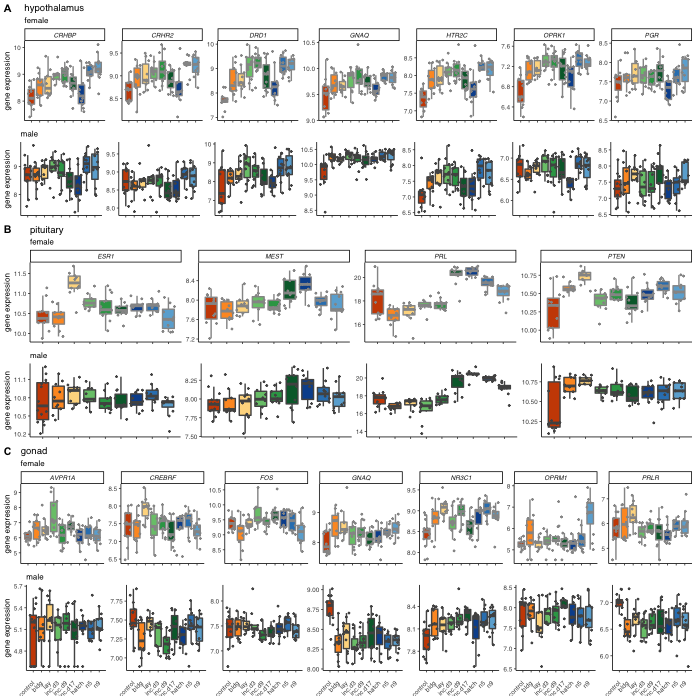
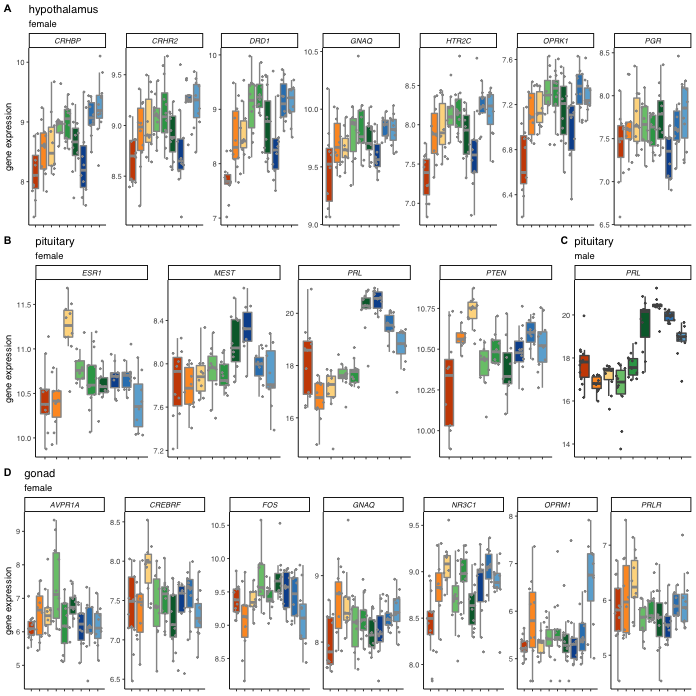
new fig 2

diff --git a/analysis/figure-2.md b/analysis/figure-2.md
@@ -3,14 +3,14 @@ Candidate gene analysis
 
     library(tidyverse)
 
-    ## ── Attaching packages ────────────────────────── tidyverse 1.3.0 ──
+    ## ── Attaching packages ────────────────────────────────────────────────────────────────────────────────── tidyverse 1.3.0 ──
 
     ## ✓ ggplot2 3.3.0.9000     ✓ purrr   0.3.3     
     ## ✓ tibble  2.1.3          ✓ dplyr   0.8.3     
     ## ✓ tidyr   1.0.0          ✓ stringr 1.4.0     
     ## ✓ readr   1.3.1          ✓ forcats 0.4.0
 
-    ## ── Conflicts ───────────────────────────── tidyverse_conflicts() ──
+    ## ── Conflicts ───────────────────────────────────────────────────────────────────────────────────── tidyverse_conflicts() ──
     ## x dplyr::filter() masks stats::filter()
     ## x dplyr::lag()    masks stats::lag()
 
@@ -63,116 +63,14 @@ Candidate gene analysis
 Candidate Genes (from literature and relevant GO terms)
 -------------------------------------------------------
 
-    # all genes in this parental care dataset 
-
-    geneids <- read_csv("../metadata/00_geneinfo.csv") %>%
-      select(-X1) %>%
-      rename("NCBI" = "entrezid",
-             "gene" = "Name")
+    source("../R/wrangledata.R")
 
     ## Warning: Missing column names filled in: 'X1' [1]
 
-    # From Ch 17 Evolution of parental care
-    curleychampagnegenes <- c("AVPR1A", "ADRA2A",    
-                             "COMT", "CRH", "CRHBP", "CRHR1", "CRHR2", 
-                              "DRD1", "DRD4","ESR1", "ESR2", #ERa ERbeta
-                              "FOS", "HTR2C", "MEST", "NR3C1", #GR
-                              "OPRM1", "PGR", "PRL", "PRLR",  "SLC6A4") #5HTT
-    curleychampagnegenes <- as.data.frame(curleychampagnegenes) %>%
-      mutate(GO = "parentalcare", gene = curleychampagnegenes)  %>%
-      select(GO, gene)
-    curleychampagnegenes
-
-    ##              GO   gene
-    ## 1  parentalcare AVPR1A
-    ## 2  parentalcare ADRA2A
-    ## 3  parentalcare   COMT
-    ## 4  parentalcare    CRH
-    ## 5  parentalcare  CRHBP
-    ## 6  parentalcare  CRHR1
-    ## 7  parentalcare  CRHR2
-    ## 8  parentalcare   DRD1
-    ## 9  parentalcare   DRD4
-    ## 10 parentalcare   ESR1
-    ## 11 parentalcare   ESR2
-    ## 12 parentalcare    FOS
-    ## 13 parentalcare  HTR2C
-    ## 14 parentalcare   MEST
-    ## 15 parentalcare  NR3C1
-    ## 16 parentalcare  OPRM1
-    ## 17 parentalcare    PGR
-    ## 18 parentalcare    PRL
-    ## 19 parentalcare   PRLR
-    ## 20 parentalcare SLC6A4
-
-    # Candidate GO terms 
-    GO_path <- "../metadata/goterms/"   # path to the data
-    GO_files <- dir(GO_path, pattern = "*.txt") # get file names
-    GO_pathfiles <- paste0(GO_path, GO_files)
-
-    GOgenesLong <- GO_pathfiles %>%
-      setNames(nm = .) %>% 
-      map_df(~read_table(.x, col_types = cols(), col_names = FALSE), .id = "file_name") %>% 
-      mutate(GO = sapply(strsplit(as.character(file_name),'../metadata/goterms/'), "[", 2)) %>% 
-      mutate(GO = sapply(strsplit(as.character(GO),'.txt'), "[", 1)) %>% 
-      mutate(gene = sapply(strsplit(as.character(X1), "[\\\\]|[^[:print:]]" ), "[", 2)) %>% 
-      select(GO, gene)  %>%
-      filter(gene != "Symbol") %>%
-      distinct(GO,gene)  %>%
-      mutate(gene = toupper(gene)) %>%
-      rbind(., curleychampagnegenes) %>%
-      arrange(gene) %>%
-      left_join(., geneids, by = "gene") %>%
-      drop_na() 
-    GOgenesLong
-
-    ## # A tibble: 37 x 4
-    ##    GO               gene   geneid NCBI          
-    ##    <chr>            <chr>   <dbl> <chr>         
-    ##  1 parentalcare     ADRA2A 428980 XP_004942333.2
-    ##  2 parentalbehavior AVP    396101 NP_990516.1   
-    ##  3 parentalbehavior AVPR1A 771773 NP_001103908.1
-    ##  4 parentalcare     AVPR1A 771773 NP_001103908.1
-    ##  5 parentalbehavior BRINP1 395098 NP_989780.1   
-    ##  6 parentalcare     COMT   416783 XP_001233014.1
-    ##  7 parentalbehavior CREBRF 416206 XP_001231574.1
-    ##  8 parentalcare     CRH    404297 NP_001116503.1
-    ##  9 parentalcare     CRHBP  427214 XP_003643006.2
-    ## 10 parentalcare     CRHR1  374218 NP_989652.1   
-    ## # … with 27 more rows
-
-    GOgenesWide <- GOgenesLong %>% 
-      pivot_wider(
-        names_from = GO,
-        values_from = gene) %>%
-      mutate(numGOs = 4 - rowSums(is.na(.))) %>%
-      arrange(desc(numGOs)) %>%
-      select(-numGOs) %>%
-      left_join(geneids, by = c("geneid","NCBI"))
-    GOgenesWide
-
-    ## # A tibble: 33 x 5
-    ##    geneid NCBI           parentalcare parentalbehavior gene  
-    ##     <dbl> <chr>          <chr>        <chr>            <chr> 
-    ##  1 771773 NP_001103908.1 AVPR1A       AVPR1A           AVPR1A
-    ##  2 427633 NP_001138320.1 DRD1         DRD1             DRD1  
-    ##  3 416343 XP_015149519.1 NR3C1        NR3C1            NR3C1 
-    ##  4 396453 NP_990797.2    PRL          PRL              PRL   
-    ##  5 428980 XP_004942333.2 ADRA2A       <NA>             ADRA2A
-    ##  6 396101 NP_990516.1    <NA>         AVP              AVP   
-    ##  7 395098 NP_989780.1    <NA>         BRINP1           BRINP1
-    ##  8 416783 XP_001233014.1 COMT         <NA>             COMT  
-    ##  9 416206 XP_001231574.1 <NA>         CREBRF           CREBRF
-    ## 10 404297 NP_001116503.1 CRH          <NA>             CRH   
-    ## # … with 23 more rows
-
-    # genes I can't find in dataset 
-    # NOS1 or OXTR or FOX1B or HTR5A
+    ## Warning: Missing column names filled in: 'X1' [1]
 
 Candidate DEGs
 --------------
-
-    candidategenes <- GOgenesLong %>% distinct(gene) %>% pull(gene)
 
     # summary DEG results from DESeq2
     candidateDEGS <- read_csv("../results/suppletable1.csv") %>%
@@ -1213,21 +1111,20 @@ variance stabilized gene expression (vsd)
     }
 
     a1 <- candidateboxplot("hypothalamus", hypDEGs, "female") + labs(x = NULL, title = "hypothalamus") 
-    a2 <- candidateboxplot("hypothalamus", hypDEGs, "male") + labs(x = NULL) +
-      theme(strip.text = element_blank())
 
     b1 <- candidateboxplot("pituitary", pitDEGs, "female") + labs(x = NULL, title = "pituitary")
-    b2 <- candidateboxplot("pituitary", pitDEGs, "male") + labs(x = NULL) +
-      theme(strip.text = element_blank())
 
-    c1 <- candidateboxplot("gonad", gonadDEGs, "female") + labs(x = NULL, title = "gonad")
-    c2 <- candidateboxplot("gonad", gonadDEGs, "male") + 
-      theme(strip.text = element_blank(),
-            axis.text.x = element_text(angle = 45, hjust = 1))
+    b2 <- candidateboxplot("pituitary", "PRL", "male") + labs(x = NULL, y = NULL,  title = "pituitary") 
+
+    b12 <- plot_grid(b1,b2,nrow = 1, labels = c("B", "C"),
+              label_size = 8, rel_widths = c(4,1))
+
+    c1 <- candidateboxplot("gonad", gonadDEGs, "female") + 
+      labs(x = NULL, title = "gonad")
 
 
-    plot_grid(a1,a2, b1,b2, c1,c2, nrow = 6, labels = c("A", " ","B", " ", "C", " "), label_size = 8,
-              rel_heights = c(1, 0.75, 1, 0.75, 1, 1))
+    plot_grid(a1, b12, c1, nrow = 3, labels = c("A", " ","D"), 
+              label_size = 8)
 
 ![](../figures/fig2-1.png)
 
